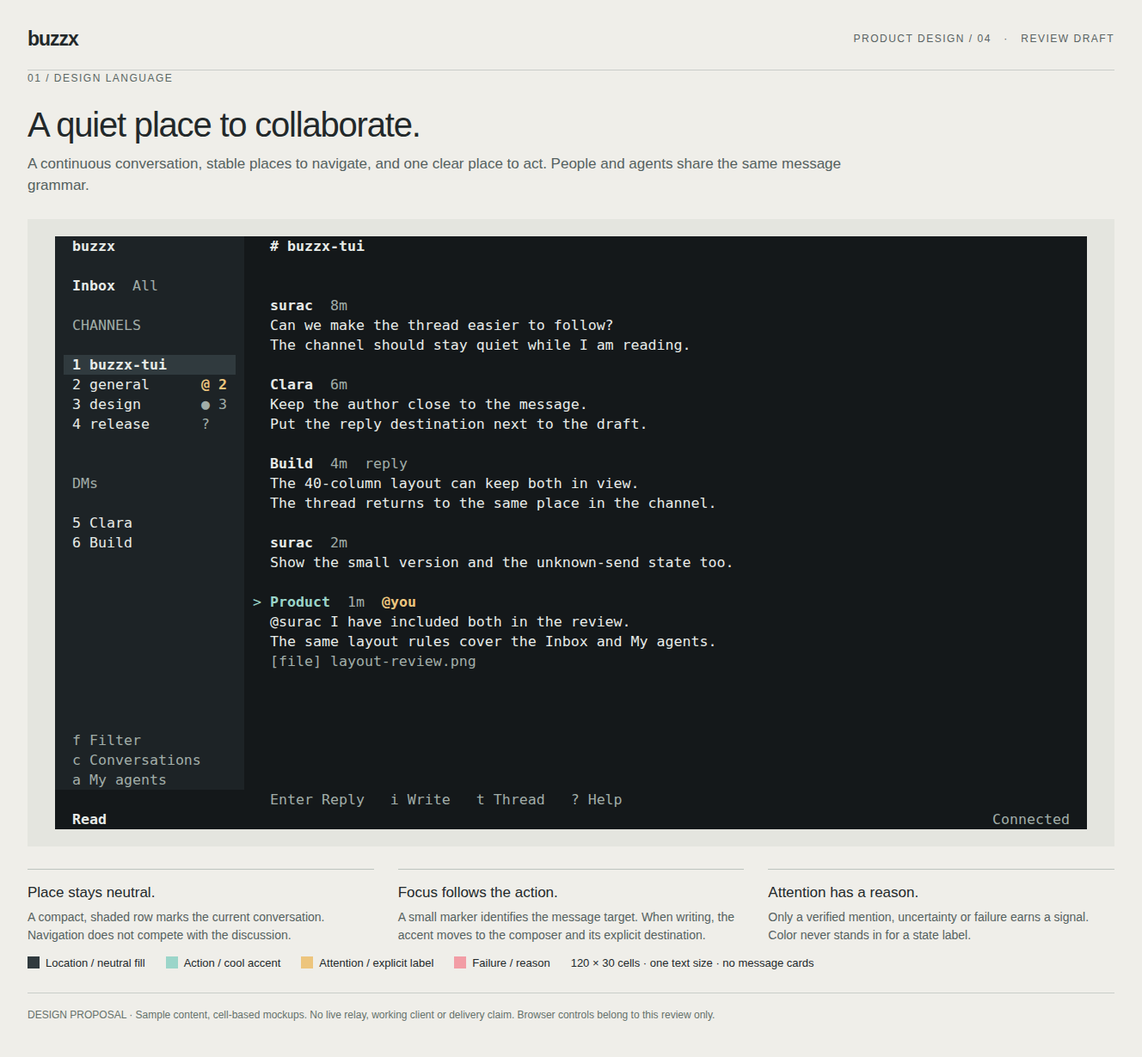
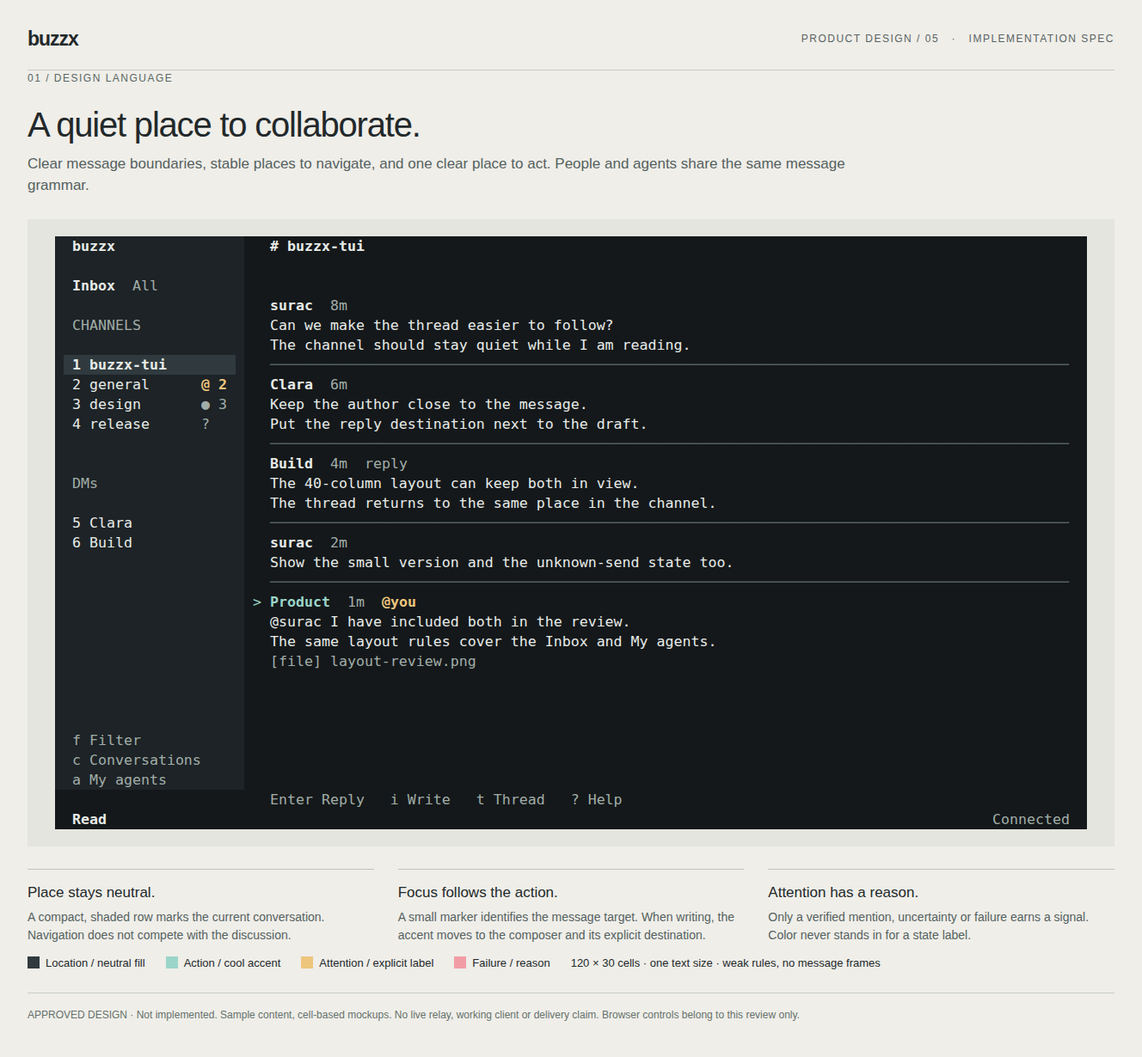
Finalize TUI visual specification for implementation

diff --git a/docs/assets/tui-design-system.html b/docs/assets/tui-design-system.html
@@ -2,11 +2,11 @@
 <html lang="en"><meta charset="utf-8"><meta name="viewport" content="width=device-width, initial-scale=1">
 <title>buzzx / A quiet place to collaborate</title>
 <style>
-*{box-sizing:border-box}body{margin:0;background:#efeee9;color:#22282a;font:16px/1.5 Arial,sans-serif}main{width:1328px;margin:auto;padding:36px 32px 40px}header{display:flex;justify-content:space-between;align-items:center;border-bottom:1px solid #c9cdc9;padding-bottom:18px}.brand{font-size:23px;font-weight:700;letter-spacing:-1px}header small{font-size:12px;letter-spacing:1.5px;text-transform:uppercase;color:#596363}nav{display:flex;gap:8px;margin:22px 0}button{font:inherit;font-size:13px;border:1px solid #b6bebb;padding:7px 13px;background:transparent;color:inherit;cursor:pointer}button[aria-pressed=true]{background:#22282a;color:#fff;border-color:#22282a}h1{font-size:40px;font-weight:500;letter-spacing:-1.2px;line-height:1.15;margin:22px 0 10px}h2{font-size:20px;font-weight:500;margin:0 0 6px}p{margin:0;color:#556160}.lead{font-size:17px;max-width:980px;margin-bottom:26px}.kicker{font-size:12px;letter-spacing:1.5px;text-transform:uppercase;color:#5a6663}.label{display:flex;justify-content:space-between;align-items:baseline;margin:20px 0 10px}.label span{font-size:12px;color:#556160}.terminal{--bg:#14181a;--surface:#1d2326;--selected:#303a3e;--fg:#e7ebe8;--meta:#a1ada8;--line:#52615c;--accent:#9bd5c9;--attention:#edc57d;--error:#f29da5;--reverse:#e7ebe8;--reversefg:#14181a;--cw:10px;--rh:23px;background:var(--bg);color:var(--fg);font-family:'DejaVu Sans Mono','Noto Sans Mono CJK SC',monospace;font-size:16.6px;line-height:var(--rh);width:calc(var(--cols)*var(--cw));height:calc(var(--rows)*var(--rh));position:relative;overflow:hidden;font-variant-ligatures:none}.terminal.light{--bg:#fafaf7;--surface:#eeefeb;--selected:#dce3de;--fg:#25332e;--meta:#56645e;--line:#818f86;--accent:#1a6960;--attention:#835506;--error:#ad3545;--reverse:#25332e;--reversefg:#fafaf7}.terminal.mono{--bg:#14181a;--surface:#14181a;--selected:#e7ebe8;--fg:#e7ebe8;--meta:#e7ebe8;--line:#e7ebe8;--accent:#e7ebe8;--attention:#e7ebe8;--error:#e7ebe8;--reverse:#e7ebe8;--reversefg:#14181a}.run,.paint{position:absolute;white-space:pre}.run{height:var(--rh);font-weight:400}.bold{font-weight:700}.meta{color:var(--meta)}.accent{color:var(--accent)}.attention{color:var(--attention);font-weight:700}.error{color:var(--error);font-weight:700}.inverse{color:var(--reversefg);font-weight:700}.selectedtext{color:var(--fg)}.mono .selectedtext{color:var(--reversefg)}.mono .accent{font-weight:700;text-decoration:underline}.grid{display:grid;grid-template-columns:1fr 1fr;gap:12px 28px}.grid .terminal{--cw:7.7px;--rh:19px;font-size:12.78px}.notes{display:grid;grid-template-columns:repeat(3,1fr);gap:28px;margin-top:26px}.notes article{border-top:1px solid #bcc4be;padding-top:14px}.notes h2{font-size:17px}.notes p{font-size:14px}.foot{font-size:12px;color:#65716b;margin-top:24px;padding-top:16px;border-top:1px solid #c9cdc9}.minirow{display:flex;gap:28px;align-items:flex-start}.minirow .terminal{--cw:10px;--rh:23px;font-size:16.6px}.statelegend{font-size:14px;color:#53615a;padding-top:15px;max-width:460px}.statelegend p{margin-bottom:14px}.hero{display:flex;justify-content:center;background:#e4e5df;padding:20px 0}.hide{display:none}body[data-export] nav{display:none}body[data-export] main{padding-top:28px}.ref{font-size:13px;margin-top:24px}a{color:#266b61}.swatches{display:flex;gap:24px;flex-wrap:wrap;margin-top:12px}.swatch{font-size:13px}.swatch i{display:inline-block;width:14px;height:14px;vertical-align:-2px;margin-right:7px} .pill{font-family:monospace;font-size:13px;background:#dce3de;padding:2px 6px} 
+*{box-sizing:border-box}body{margin:0;background:#efeee9;color:#22282a;font:16px/1.5 Arial,sans-serif}main{width:1328px;margin:auto;padding:36px 32px 40px}header{display:flex;justify-content:space-between;align-items:center;border-bottom:1px solid #c9cdc9;padding-bottom:18px}.brand{font-size:23px;font-weight:700;letter-spacing:-1px}header small{font-size:12px;letter-spacing:1.5px;text-transform:uppercase;color:#596363}nav{display:flex;gap:8px;margin:22px 0}button{font:inherit;font-size:13px;border:1px solid #b6bebb;padding:7px 13px;background:transparent;color:inherit;cursor:pointer}button[aria-pressed=true]{background:#22282a;color:#fff;border-color:#22282a}h1{font-size:40px;font-weight:500;letter-spacing:-1.2px;line-height:1.15;margin:22px 0 10px}h2{font-size:20px;font-weight:500;margin:0 0 6px}p{margin:0;color:#556160}.lead{font-size:17px;max-width:980px;margin-bottom:26px}.kicker{font-size:12px;letter-spacing:1.5px;text-transform:uppercase;color:#5a6663}.label{display:flex;justify-content:space-between;align-items:baseline;margin:20px 0 10px}.label span{font-size:12px;color:#556160}.terminal{--bg:#14181a;--surface:#1d2326;--selected:#303a3e;--fg:#e7ebe8;--meta:#a1ada8;--line:#52615c;--accent:#9bd5c9;--attention:#edc57d;--error:#f29da5;--reverse:#e7ebe8;--reversefg:#14181a;--cw:10px;--rh:23px;background:var(--bg);color:var(--fg);font-family:'DejaVu Sans Mono','Noto Sans Mono CJK SC',monospace;font-size:16.6px;line-height:var(--rh);width:calc(var(--cols)*var(--cw));height:calc(var(--rows)*var(--rh));position:relative;overflow:hidden;font-variant-ligatures:none}.terminal.light{--bg:#fafaf7;--surface:#eeefeb;--selected:#dce3de;--fg:#25332e;--meta:#56645e;--line:#818f86;--accent:#1a6960;--attention:#835506;--error:#ad3545;--reverse:#25332e;--reversefg:#fafaf7}.terminal.mono{--bg:#14181a;--surface:#14181a;--selected:#e7ebe8;--fg:#e7ebe8;--meta:#e7ebe8;--line:#e7ebe8;--accent:#e7ebe8;--attention:#e7ebe8;--error:#e7ebe8;--reverse:#e7ebe8;--reversefg:#14181a}.run,.paint{position:absolute;white-space:pre}.run{height:var(--rh);font-weight:400}.bold{font-weight:700}.meta{color:var(--meta)}.rule{color:var(--line)}.mono .rule{opacity:.45}.accent{color:var(--accent)}.attention{color:var(--attention);font-weight:700}.error{color:var(--error);font-weight:700}.inverse{color:var(--reversefg);font-weight:700}.selectedtext{color:var(--fg)}.mono .selectedtext{color:var(--reversefg)}.mono .accent{font-weight:700;text-decoration:underline}.grid{display:grid;grid-template-columns:1fr 1fr;gap:12px 28px}.grid .terminal{--cw:7.7px;--rh:19px;font-size:12.78px}.notes{display:grid;grid-template-columns:repeat(3,1fr);gap:28px;margin-top:26px}.notes article{border-top:1px solid #bcc4be;padding-top:14px}.notes h2{font-size:17px}.notes p{font-size:14px}.foot{font-size:12px;color:#65716b;margin-top:24px;padding-top:16px;border-top:1px solid #c9cdc9}.minirow{display:flex;gap:28px;align-items:flex-start}.minirow .terminal{--cw:10px;--rh:23px;font-size:16.6px}.statelegend{font-size:14px;color:#53615a;padding-top:15px;max-width:460px}.statelegend p{margin-bottom:14px}.hero{display:flex;justify-content:center;background:#e4e5df;padding:20px 0}.hide{display:none}body[data-export] nav{display:none}body[data-export] main{padding-top:28px}.ref{font-size:13px;margin-top:24px}a{color:#266b61}.swatches{display:flex;gap:24px;flex-wrap:wrap;margin-top:12px}.swatch{font-size:13px}.swatch i{display:inline-block;width:14px;height:14px;vertical-align:-2px;margin-right:7px} .pill{font-family:monospace;font-size:13px;background:#dce3de;padding:2px 6px}
 </style>
-<main><header><div class="brand">buzzx</div><small>Product design / 04 &nbsp; · &nbsp; Review draft</small></header>
+<main><header><div class="brand">buzzx</div><small>Product design / 05 &nbsp; · &nbsp; Implementation spec</small></header>
 <nav aria-label="Review boards"><button data-board="language">Design language</button><button data-board="surfaces">Shared surfaces</button><button data-board="resilience">Small + uncertain</button><button data-board="density">Density</button><span style="flex:1"></span><button data-theme="dark">Dark</button><button data-theme="light">Light</button><button data-theme="mono">NO_COLOR</button></nav>
-<div id="board"></div><div class="foot">DESIGN PROPOSAL · Sample content, cell-based mockups. No live relay, working client or delivery claim. Browser controls belong to this review only.</div></main>
+<div id="board"></div><div class="foot">APPROVED DESIGN · Not implemented. Sample content, cell-based mockups. No live relay, working client or delivery claim. Browser controls belong to this review only.</div></main>
 <script>
 const q=new URLSearchParams(location.search);let board=q.get('board')||'language',theme=q.get('theme')||'dark';if(q.has('export'))document.body.dataset.export='true';
 const issues=[];let serial=0;
@@ -16,19 +16,29 @@ function tx(x,y,s,cls=''){let n=[...s].length;if(x<0||y<0||x+n>cols||y>=rows)iss
 return {e,tx,paint,cols,rows};}
 function foot(t,keys,state='Connected',mode='Read'){t.tx(2,t.rows-2,keys,'meta');t.tx(2,t.rows-1,mode,'bold');t.tx(Math.max(2,t.cols-state.length-2),t.rows-1,state,state.includes('unconfirmed')?'attention':state.includes('failed')?'error':'meta')}
 function head(t,title,back=''){t.paint(0,0,t.cols,1,'surface');t.tx(2,0,title,'bold');if(back)t.tx(t.cols-back.length-2,0,back,'meta')}
-function msg(t,x,y,who,age,lines,{focus=false,tag='',kind='meta'}={}){if(focus)t.tx(x-2,y,'>','accent');t.tx(x,y,who,focus?'accent bold':'bold');t.tx(x+who.length+2,y,age,'meta');if(tag)t.tx(x+who.length+age.length+4,y,tag,kind);lines.forEach((s,i)=>t.tx(x,y+1+i,s));return y+lines.length+2}
+function rule(t,x,y,n){if(n>=4)t.tx(x,y,'─'.repeat(n),'rule')}
+function msg(t,x,y,who,age,lines,{focus=false,tag='',kind='meta'}={}){
+ const roomy=t.cols>=40&&t.rows>=16;
+ if(roomy&&t.lastMessageEnd!==undefined)rule(t,x,y-1,t.cols-x-2);
+ if(focus)t.tx(x-2,y,'>','accent');t.tx(x,y,who,focus?'accent bold':'bold');
+ t.tx(x+who.length+2,y,age,'meta');if(tag)t.tx(x+who.length+age.length+4,y,tag,kind);
+ const labelEnd=x+who.length+2+age.length+(tag?tag.length+2:0);
+ if(!roomy)rule(t,labelEnd+2,y,t.cols-2-labelEnd-2);
+ lines.forEach((s,i)=>t.tx(x,y+1+i,s));t.lastMessageEnd=y+lines.length;
+ return t.lastMessageEnd+(roomy?2:1)
+}
 function channel(){const t=term(120,30);t.paint(0,0,22,28,'surface');t.tx(2,0,'buzzx','bold');t.tx(25,0,'# buzzx-tui','bold');t.tx(2,2,'Inbox','bold');t.tx(9,2,'All','meta');t.tx(2,4,'CHANNELS','meta');t.paint(1,6,20,1,'selected');t.tx(2,6,'1 buzzx-tui','selectedtext bold');t.tx(2,7,'2 general');t.tx(17,7,'@ 2','attention');t.tx(2,8,'3 design');t.tx(17,8,'● 3','meta');t.tx(2,9,'4 release');t.tx(17,9,'?','meta');t.tx(2,12,'DMs','meta');t.tx(2,14,'5 Clara');t.tx(2,15,'6 Build');t.tx(2,25,'f Filter','meta');t.tx(2,26,'c Conversations','meta');t.tx(2,27,'a My agents','meta');
 msg(t,25,3,'surac','8m',['Can we make the thread easier to follow?','The channel should stay quiet while I am reading.']);
 msg(t,25,7,'Clara','6m',['Keep the author close to the message.','Put the reply destination next to the draft.']);
 msg(t,25,11,'Build','4m',['The 40-column layout can keep both in view.','The thread returns to the same place in the channel.'],{tag:'reply'});
 msg(t,25,15,'surac','2m',['Show the small version and the unknown-send state too.']);
 msg(t,25,18,'Product','1m',['@surac I have included both in the review.','The same layout rules cover the Inbox and My agents.'],{focus:true,tag:'@you',kind:'attention'});t.tx(25,21,'[file] layout-review.png','meta');t.tx(25,28,'Enter Reply   i Write   t Thread   ? Help','meta');t.tx(2,29,'Read','bold');t.tx(109,29,'Connected','meta');return t}
-function thread(){const t=term(80,20);head(t,'# buzzx-tui / Thread');msg(t,4,2,'surac','8m',['Can we make the thread easier to follow?'],{tag:'root'});msg(t,4,5,'Clara','6m',['Put the reply destination next to the draft.'],{tag:'reply'});msg(t,4,8,'Build','4m',['The 40-column layout can keep both in view.'],{tag:'reply'});t.paint(2,13,76,4,'surface');t.tx(2,13,'|','accent');t.tx(4,13,'Reply to Build','accent bold');t.tx(4,15,'Please include the small-window capture.');t.paint(4+'Please include the small-window capture.'.length,15,1,1,'fg');foot(t,'Enter Send   Alt+Enter Newline   Esc Nav','Connected','Reply');return t}
+function thread(){const t=term(80,20);head(t,'# buzzx-tui / Thread');msg(t,4,2,'surac','8m',['Can we make the thread easier to follow?'],{tag:'root'});msg(t,4,5,'Clara','6m',['Put the reply destination next to the draft.'],{tag:'reply'});msg(t,4,8,'Build','4m',['The 40-column layout can keep both in view.'],{tag:'reply'});t.paint(2,14,76,4,'surface');t.tx(2,14,'|','accent');t.tx(4,14,'Reply to Build','accent bold');t.tx(4,16,'Please include the small-window capture.');t.paint(4+'Please include the small-window capture.'.length,16,1,1,'fg');foot(t,'Enter Send   Alt+Enter Newline   Esc Nav','Connected','Reply');return t}
 function picker(){const t=term(80,20);head(t,'Inbox / For you','Esc Back');t.tx(4,3,'CHANNELS','meta');t.paint(2,5,76,1,'selected');t.tx(2,5,'> 1  general','selectedtext bold');t.tx(72,5,'@ 2','selectedtext bold');t.tx(4,7,'2  design');t.tx(72,7,'@ 1','attention');t.tx(4,10,'DMs','meta');t.tx(4,12,'3  Clara');t.tx(72,12,'@ 1','attention');foot(t,'j/k Select   Enter Open   f Filter   ? Help','Connected','Pick');return t}
 function agents(){const t=term(80,17);head(t,'My agents','Esc Back');t.tx(4,2,'NAME','meta');t.tx(38,2,'OBSERVED STATE','meta');t.paint(2,4,76,1,'selected');t.tx(2,4,'> Build','selectedtext bold');t.tx(38,4,'Working','selectedtext bold');t.tx(4,6,'Product');t.tx(38,6,'No active turn observed');t.tx(4,8,'Research');t.tx(38,8,'Unknown','meta');t.tx(4,12,'Build  73ae...1c08','meta');foot(t,'j/k Select   Enter Details','Connected','Agents');return t}
 function detail(){const t=term(80,17);head(t,'My agents / Build','Esc Back');t.tx(4,2,'Working','bold');t.tx(4,4,'Last signal  3s ago','meta');t.tx(4,5,'Key          73ae...1c08','meta');t.tx(4,8,'CONVERSATIONS','meta');t.paint(2,10,76,1,'selected');t.tx(2,10,'> # buzzx-tui','selectedtext bold');t.tx(4,12,'Unavailable context','meta');foot(t,'j/k Select   Enter Open channel','Connected','Agents');return t}
-function compact(cols,rows,tone=theme,state='reply'){const t=term(cols,rows,tone);const tiny=cols<40;if(tiny){head(t,'Thread #buzzx...');t.tx(0,1,'Build: Checks passed.');t.tx(0,2,'Reply to Build','accent bold');t.tx(0,3,'Please share evidence.');t.paint(22,3,1,1,'fg');t.tx(0,4,'Enter:send Esc:nav','meta');t.tx(0,5,'Connected','meta');return t}head(t,'# buzzx-tui / Thread');msg(t,2,2,state==='edit'?'surac':'Build',state==='edit'?'1m':'2m',[state==='edit'?'Please share the first capture.':'The small layout is ready.']);if(state==='uncertain'){t.tx(2,5,'surac  1s  ? Unconfirmed','attention');t.tx(2,6,'Please share the evidence.');t.tx(2,8,'Esc Back   ? Help','meta');t.tx(0,9,'Send unconfirmed','attention');return t}t.paint(0,5,cols,3,'surface');t.tx(0,5,'|','accent');t.tx(2,5,state==='edit'?'Edit own message':'Reply to Build','accent bold');t.tx(2,6,'Please share the evidence.');t.paint(2+'Please share the evidence.'.length,6,1,1,'fg');t.tx(2,8,'Enter Send   Esc Nav','meta');t.tx(2,9,'Connected','meta');return t}
-function error(){const t=term(80,12);head(t,'# buzzx-tui / Thread');msg(t,4,2,'Clara','2m',['Please send the layout to the team.']);t.paint(2,6,76,3,'surface');t.tx(2,6,'|','accent');t.tx(4,6,'Reply to Clara','accent bold');t.tx(4,7,'@Twin please review this layout.');t.paint(4+'@Twin please review this layout.'.length,7,1,1,'fg');t.tx(2,10,'Enter Send   Esc Nav, then ? Help','meta');t.tx(2,11,'Not sent: @Twin is ambiguous. Use an exact identity.','error');return t}
+function compact(cols,rows,tone=theme,state='reply'){const t=term(cols,rows,tone);const tiny=cols<40;if(tiny){head(t,'Thread #buzzx...');t.tx(0,1,'Build: Checks passed.');t.tx(0,2,'Reply to Build','accent bold');t.tx(0,3,'Please share evidence.');t.paint(22,3,1,1,'fg');t.tx(0,4,'Enter:send Esc:nav','meta');t.tx(0,5,'Connected','meta');return t}head(t,'# buzzx-tui / Thread');msg(t,2,2,state==='edit'?'surac':'Build',state==='edit'?'1m':'2m',[state==='edit'?'Please share the first capture.':'The small layout is ready.']);if(state==='uncertain'){msg(t,2,4,'surac','1s',['Please share the evidence.'],{tag:'? Unconfirmed',kind:'attention'});t.tx(2,8,'Esc Back   ? Help','meta');t.tx(0,9,'Send unconfirmed','attention');return t}t.paint(0,6,cols,2,'surface');t.tx(0,6,'|','accent');t.tx(2,6,state==='edit'?'Edit own message':'Reply to Build','accent bold');t.tx(2,7,'Please share the evidence.');t.paint(2+'Please share the evidence.'.length,7,1,1,'fg');t.tx(2,8,'Enter Send   Esc Nav','meta');t.tx(2,9,'Connected','meta');return t}
+function error(){const t=term(80,12);head(t,'# buzzx-tui / Thread');msg(t,4,2,'Clara','2m',['Please send the layout to the team.']);t.paint(2,8,76,2,'surface');t.tx(2,8,'|','accent');t.tx(4,8,'Reply to Clara','accent bold');t.tx(4,9,'@Twin please review this layout.');t.paint(4+'@Twin please review this layout.'.length,9,1,1,'fg');t.tx(2,10,'Enter Send   Esc Nav, then ? Help','meta');t.tx(2,11,'Not sent: @Twin is ambiguous. Use an exact identity.','error');return t}
 function smallRead(tone){const t=term(80,12,tone);head(t,'# buzzx-tui / Thread','Esc Back');msg(t,4,2,'Clara','3m',['Keep the author close to the message.'],{tag:'root'});msg(t,4,4,'Product','1m',['@surac the layout review is ready.'],{focus:true,tag:'@you',kind:'attention'});foot(t,'Enter Reply   i Root   ? Help');return t}
 function wideSmall(){const t=term(80,12);t.paint(0,0,22,10,'surface');t.tx(2,0,'Inbox / All','bold');t.tx(2,2,'CHANNELS','meta');t.paint(1,3,20,1,'selected');t.tx(2,3,'1 buzzx-tui','selectedtext bold');t.tx(2,4,'2 general');t.tx(17,4,'@ 2','attention');t.tx(2,5,'3 design');t.tx(2,7,'DMs','meta');t.tx(2,8,'4 Clara');t.tx(25,0,'# buzzx-tui','bold');msg(t,25,2,'Clara','3m',['Can we review the narrow layout?']);msg(t,25,4,'Product','1m',['The author and destination stay visible.'],{focus:true});t.tx(25,10,'Enter Reply  i Write  t Thread','meta');t.tx(2,10,'f Filter','meta');t.tx(2,11,'Read','bold');t.tx(69,11,'Connected','meta');return t}
 function narrowRead(){const t=term(79,12);head(t,'# buzzx-tui');msg(t,4,2,'Clara','3m',['Can we review the narrow layout?']);msg(t,4,4,'Product','1m',['The author and destination stay visible.'],{focus:true});foot(t,'j/k Move  c Conversations  Enter Reply  i Write');return t}
@@ -36,8 +46,8 @@ function tinyAgents(){const t=term(24,6);head(t,'My agents');t.paint(0,1,24,3,'s
 function missingRoot(){const t=term(40,10);head(t,'# buzzx-tui / Thread','Esc Back');t.tx(2,2,'Root deleted','meta');msg(t,2,4,'Build','2m',['Replies remain readable.'],{focus:true});t.tx(2,8,'Enter Reply   ? Help','meta');t.tx(2,9,'Reconnecting; stale','attention');return t}
 function tile(title,caption,t){const f=document.createElement('section');const l=document.createElement('div');l.className='label';l.innerHTML='<h2>'+title+'</h2><span>'+caption+'</span>';f.append(l,t.e);return f}
 function intro(k,title,lead){return '<div class="kicker">'+k+'</div><h1>'+title+'</h1><p class="lead">'+lead+'</p>'}
-function render(){issues.length=0;serial=0;const b=document.getElementById('board');b.innerHTML='';document.querySelectorAll('[data-board]').forEach(e=>e.setAttribute('aria-pressed',e.dataset.board===board));document.querySelectorAll('[data-theme]').forEach(e=>e.setAttribute('aria-pressed',e.dataset.theme===theme));if(board==='language'){b.innerHTML=intro('01 / Design language','A quiet place to collaborate.','A continuous conversation, stable places to navigate, and one clear place to act. People and agents share the same message grammar.');let h=document.createElement('div');h.className='hero';h.append(channel().e);b.append(h);b.insertAdjacentHTML('beforeend','<div class="notes"><article><h2>Place stays neutral.</h2><p>A compact, shaded row marks the current conversation. Navigation does not compete with the discussion.</p></article><article><h2>Focus follows the action.</h2><p>A small marker identifies the message target. When writing, the accent moves to the composer and its explicit destination.</p></article><article><h2>Attention has a reason.</h2><p>Only a verified mention, uncertainty or failure earns a signal. Color never stands in for a state label.</p></article></div><div class="swatches"><span class="swatch"><i style="background:#303a3e"></i>Location / neutral fill</span><span class="swatch"><i style="background:#9bd5c9"></i>Action / cool accent</span><span class="swatch"><i style="background:#edc57d"></i>Attention / explicit label</span><span class="swatch"><i style="background:#f29da5"></i>Failure / reason</span><span class="swatch">120 × 30 cells · one text size · no message cards</span></div>')}
+function render(){issues.length=0;serial=0;const b=document.getElementById('board');b.innerHTML='';document.querySelectorAll('[data-board]').forEach(e=>e.setAttribute('aria-pressed',e.dataset.board===board));document.querySelectorAll('[data-theme]').forEach(e=>e.setAttribute('aria-pressed',e.dataset.theme===theme));if(board==='language'){b.innerHTML=intro('01 / Design language','A quiet place to collaborate.','Clear message boundaries, stable places to navigate, and one clear place to act. People and agents share the same message grammar.');let h=document.createElement('div');h.className='hero';h.append(channel().e);b.append(h);b.insertAdjacentHTML('beforeend','<div class="notes"><article><h2>Place stays neutral.</h2><p>A compact, shaded row marks the current conversation. Navigation does not compete with the discussion.</p></article><article><h2>Focus follows the action.</h2><p>A small marker identifies the message target. When writing, the accent moves to the composer and its explicit destination.</p></article><article><h2>Attention has a reason.</h2><p>Only a verified mention, uncertainty or failure earns a signal. Color never stands in for a state label.</p></article></div><div class="swatches"><span class="swatch"><i style="background:#303a3e"></i>Location / neutral fill</span><span class="swatch"><i style="background:#9bd5c9"></i>Action / cool accent</span><span class="swatch"><i style="background:#edc57d"></i>Attention / explicit label</span><span class="swatch"><i style="background:#f29da5"></i>Failure / reason</span><span class="swatch">120 × 30 cells · one text size · weak rules, no message frames</span></div>')}
 else if(board==='surfaces'){b.innerHTML=intro('02 / Shared surfaces','Different tasks. The same grammar.','Context at the top. Content in the middle. Available actions and state at the bottom. Each surface reuses these positions.');let g=document.createElement('div');g.className='grid';g.append(tile('Thread / reply','80 × 20',thread()),tile('Inbox / choose a conversation','80 × 20',picker()),tile('My agents / list','80 × 17',agents()),tile('My agents / detail','80 × 17',detail()));b.append(g);b.insertAdjacentHTML('beforeend','<div class="notes"><article><h2>One list row.</h2><p>Inbox, agents and working contexts share selection and alignment. Meaningful state stays visible before names are clipped.</p></article><article><h2>One composer.</h2><p>New message, Reply to and Edit own message share a layout. The destination stays attached to the draft.</p></article><article><h2>One honest state.</h2><p>Working, Unknown and No active turn observed keep their meanings. Reading a message never proves agent execution.</p></article></div>')}
-else if(board==='resilience'){b.innerHTML=intro('03 / Resilience','Less room. No less meaning.','Density changes before meaning does. A destination, a draft, and an honest outcome must survive both small terminals and lost color.');let g=document.createElement('div');g.className='grid';g.append(tile('Light / thread reading','80 × 12',smallRead('light')),tile('NO_COLOR / same fixture','80 × 12',smallRead('mono')));b.append(g);let m=document.createElement('div');m.className='minirow';m.append(tile('Thread / reply','40 × 10',compact(40,10)),tile('Write / uncertain','40 × 10',compact(40,10,theme,'uncertain')),tile('Minimum / reply','24 × 6',compact(24,6)));b.append(m);let g2=document.createElement('div');g2.className='grid';g2.append(tile('Refused mention / draft retained','80 × 12',error()));let notes=document.createElement('div');notes.className='statelegend';notes.innerHTML='<h2>Outcome is part of the interface.</h2><p><b>Sending</b> is pending. <b>Not sent</b> keeps the draft for correction. <b>Unconfirmed</b> keeps the attempted message visible without offering a duplicate send.</p><p><b>Reconnecting</b> keeps loaded messages visible and blocks publishing. <b>Unknown</b> never becomes a reassuring zero.</p><p>At 24 × 6, keep exactly six rows: context, target context, destination, input, keys, state. Remove decorative padding first.</p><p>Theme buttons change this review artifact only. The client inherits terminal defaults; the light and dark samples are controlled contrast studies.</p>';g2.append(notes);b.append(g2)}else{b.innerHTML=intro('04 / Density','Shrink the layout, keep the contract.','The 80-column boundary changes navigation. Short windows remove blank rows before they remove authors, destinations or state.');let g=document.createElement('div');g.className='grid';g.append(tile('Channel / wide','80 × 12',wideSmall()),tile('Channel / narrow','79 × 12',narrowRead()));b.append(g);let m=document.createElement('div');m.className='minirow';m.append(tile('Thread / editing','40 × 10',compact(40,10,theme,'edit')),tile('Deleted root + stale content','40 × 10',missingRoot()),tile('Agents / state','24 × 6',tinyAgents()));b.append(m);b.insertAdjacentHTML('beforeend','<div class="notes"><article><h2>Height pays for spacing.</h2><p>At 12 rows, no decorative gap separates author and body. Below 12 rows, remove extra padding. Keep one line of context while composing.</p></article><article><h2>Width changes structure.</h2><p>At 80 columns, the channel keeps its 22-cell sidebar. At 79 columns, c opens the full-screen Inbox. A thread is always one column.</p></article><article><h2>State wins over the name.</h2><p>A long Agent state wraps. Unknown is never abbreviated to Idle. On disconnect, loaded content stays visible and publication is blocked.</p></article></div>')}window.designAudit={issues,board,theme,terminals:serial};}
+else if(board==='resilience'){b.innerHTML=intro('03 / Resilience','Less room. No less meaning.','Density changes before meaning does. A destination, a draft, and an honest outcome must survive both small terminals and lost color.');let g=document.createElement('div');g.className='grid';g.append(tile('Light / thread reading','80 × 12',smallRead('light')),tile('NO_COLOR / same fixture','80 × 12',smallRead('mono')));b.append(g);let m=document.createElement('div');m.className='minirow';m.append(tile('Thread / reply','40 × 10',compact(40,10)),tile('Write / uncertain','40 × 10',compact(40,10,theme,'uncertain')),tile('Minimum / reply','24 × 6',compact(24,6)));b.append(m);let g2=document.createElement('div');g2.className='grid';g2.append(tile('Refused mention / draft retained','80 × 12',error()));let notes=document.createElement('div');notes.className='statelegend';notes.innerHTML='<h2>Outcome is part of the interface.</h2><p><b>Sending</b> is pending. <b>Not sent</b> keeps the draft for correction. <b>Unconfirmed</b> keeps the attempted message visible without offering a duplicate send.</p><p><b>Reconnecting</b> keeps loaded messages visible and blocks publishing. <b>Unknown</b> never becomes a reassuring zero.</p><p>At 24 × 6, keep exactly six rows: context, target context, destination, input, keys, state. Remove decorative padding first.</p><p>Theme buttons change this review artifact only. The client inherits terminal defaults; the light and dark samples are controlled contrast studies.</p>';g2.append(notes);b.append(g2)}else{b.innerHTML=intro('04 / Density','Shrink the layout, keep the contract.','The 80-column boundary changes navigation. Short windows remove blank rows before they remove authors, destinations or state.');let g=document.createElement('div');g.className='grid';g.append(tile('Channel / wide','80 × 12',wideSmall()),tile('Channel / narrow','79 × 12',narrowRead()));b.append(g);let m=document.createElement('div');m.className='minirow';m.append(tile('Thread / editing','40 × 10',compact(40,10,theme,'edit')),tile('Deleted root + stale content','40 × 10',missingRoot()),tile('Agents / state','24 × 6',tinyAgents()));b.append(m);b.insertAdjacentHTML('beforeend','<div class="notes"><article><h2>Height pays for spacing.</h2><p>Roomy messages use a rule in the existing gap. Compact headers carry the rule on the same row. Authors, state and body keep their space.</p></article><article><h2>Width changes structure.</h2><p>At 80 columns, the channel keeps its 22-cell sidebar. At 79 columns, c opens the full-screen Inbox. A thread is always one column.</p></article><article><h2>State wins over the name.</h2><p>A long Agent state wraps. Decoration yields before meaningful text. Unknown is never abbreviated to Idle. On disconnect, loaded content stays visible and publication is blocked.</p></article></div>')}window.designAudit={issues,board,theme,terminals:serial};}
 document.querySelectorAll('[data-board]').forEach(e=>e.onclick=()=>{board=e.dataset.board;render()});document.querySelectorAll('[data-theme]').forEach(e=>e.onclick=()=>{theme=e.dataset.theme;render()});render();
 </script></html>

diff --git a/docs/tui-visual.md b/docs/tui-visual.md
@@ -1,7 +1,8 @@
 # TUI visual language
 
-Status: revision 4, product review draft. Not implemented. This replaces the
-visual direction in revisions 1-3. Previous images remain historical artifacts.
+Status: revision 5, approved for implementation on 2026-09-27. Not implemented.
+This is the implementation baseline, including the approved weak message
+separators. It replaces revisions 1-4; previous images remain historical artifacts.
 The [review atlas](assets/tui-design-system.html) contains four boards and dark,
 light and NO_COLOR studies. Its controls are for reviewing the design, not new
 client controls. Sample messages and Agent states are invented fixtures.
@@ -20,23 +21,22 @@ explicit when its knowledge is incomplete. A conversation is the primary
 surface. Navigation supports it; runtime information does not take it over.
 This follows the [product contract](../core.md).
 
-## Review of the previous direction
+## Scope and authority
 
-Revision 3 styled isolated screens before defining their shared grammar. The
-selected conversation, selected message and input all used blue emphasis, so
-several regions competed to be the action target. A highlighted message kept
-its accent while the composer was active. The proposed author/body gap broke
-message grouping, and the 26-cell roomy example did not demonstrate the
-compact sidebar allocation.
+Implement this visual language across the channel/DM timeline, focused thread,
+composer, Inbox picker, Agent list/detail and help. All pages use the same
+styles, spacing and selection rules. Do not stop at the main channel screen.
 
-The sample also replaced the existing unread dot with an unexplained asterisk.
-It mainly demonstrated a spacious dark channel and a narrow reply; light,
-NO_COLOR, list/detail, refused sends and uncertain sends were left as future
-checks. Passing repository checks could not establish that the design worked.
+This document owns visual appearance and density. [The manual](tui-use.md)
+owns keys, focus, drafts, recipients and state meanings;
+[the render contract](../design/render-contract.md) owns rows and overlays.
+Existing ASCII layouts in the manual explain behavior, not the final styling.
+This spec and its revision-5 atlas are the appearance baseline.
 
-Choose a shared layout and semantic emphasis before styling individual views.
-Keep one message grammar, one list selection, one composer, and one state area.
-The specimens below demonstrate these components together and under pressure.
+No new control surface, setting, theme picker, navigation command, message
+grouping, protocol, read-state rule or Agent capability is added. A visual
+separator cannot merge two events, introduce a selectable item or imply that
+a task or thread has finished. The application remains a terminal chat client.
 
 ## Shared anatomy
 
@@ -93,8 +93,11 @@ All authors use the same treatment. No synthetic human/assistant bubble style,
 role color, avatar or inferred bot badge is added.
 
 An author line is immediately followed by its body, always on the same left
-edge. At 16 rows or more, one blank row separates message groups and list items
-may have one intervening blank row. Below 16 rows, remove decorative gaps.
+edge. A roomy timeline has at least 40 terminal columns and 16 terminal rows;
+all other supported sizes use compact spacing. This is a density choice, not
+a new navigation breakpoint. Roomy timelines use one separator row between
+messages; compact timelines use no extra separator row. Lists may have one
+intervening blank row in roomy mode, but do not inherit timeline separators.
 Existing newlines in message content are content and are not removed.
 
 The channel sidebar stays 22 cells wide. Content starts with a two-cell focus
@@ -103,11 +106,13 @@ outer inset plus its focus gutter. At widths below 40, reduce outer padding
 before reducing body width. At 24 columns, padding can be zero. At 24x6,
 composition uses exactly the six rows illustrated in the density studies.
 
-Leave no blank row inside a short composer between its target and input. A
-roomy composer can have one. The cursor is a terminal cell after the insertion
-point, not an extra icon. Use at most one neutral input surface and a short
-left rule beside its target; remove full box borders. At small sizes the
-target and cursor establish the input region without decoration.
+A compact composer uses one target row immediately followed by one input row.
+A roomy composer uses one target row, one blank row and two input rows. Keep
+the cursor visible within that fixed input allocation as the draft grows;
+the buffer itself is not clipped or shortened. Use the terminal cursor at the
+insertion point; the block in the mockup illustrates it, not a second cursor.
+Use one neutral input surface and a short left rule beside its target, with no
+full box border. At minimal widths, the target and cursor suffice.
 
 Conversation signal slots retain the existing five-cell reservation. Names
 shorten only after allocating their state. In an Agent list, align state words
@@ -116,12 +121,78 @@ Do not abbreviate `No active turn observed` to a different claim. Message
 bodies wrap; labels may clip; complete names and reasons remain in help/detail.
 Measure terminal cells, including wide and combining characters.
 
+## Message separators
+
+Ordinary messages have no complete frame or card. A weak horizontal rule
+clarifies where one message ends and the next starts. It uses the neutral
+separator role, never the focus, mention or error color. Do not brighten it
+when a message is focused, mentioned, pending or uncertain.
+
+- **Roomy timeline:** replace the single gap between adjacent messages with
+  one rule row. Start at the body left edge and end at the content right inset;
+  do not cross the focus gutter or sidebar. The rule follows the entire message,
+  including attachment and reaction lines, and precedes the next author. Do not
+  add another gap above or below it, or a rule before the first/after the last
+  message in the loaded sequence.
+- **Compact timeline:** allocate the author, age and semantic labels first.
+  If at least six cells remain, leave two spaces and fill the remainder with
+  the rule (at least four strokes). Otherwise omit it. Never clip a name,
+  state or body just to fit decoration. The rule cannot wrap to another row.
+- **Minimal one-row excerpt:** where the existing compact view combines an
+  author and body in one row, omit the rule. At 24x6 the input context needs
+  that space. A header-only row may still use the compact rule if space permits.
+
+A separator is presentational spacing, not a row/event of its own. It cannot
+receive focus, advance read progress, count as a reply or be a write target.
+When the viewport starts inside a message, do not fabricate a new message
+boundary. A rule scrolls with the actual boundary, not as a sticky screen edge.
+Incoming messages and switching density must preserve the focused event.
+
+Use a single-cell horizontal stroke, such as `─`; ASCII `-` is acceptable when
+that glyph is unavailable. In NO_COLOR use default foreground with dim styling
+where supported, never reverse, bold or an attention marker. If dim is not
+supported, a plain neutral stroke is sufficient; author weight and position
+still distinguish the message. Keep the focused author and meaningful labels
+stronger than the decoration. Consecutive messages by the same author retain
+separate headers and the same rule: no new grouping behavior is introduced.
+
+The input's short vertical rule identifies the active writing region. It does
+not wrap the draft in a message frame. Inbox, Agents and help retain their
+existing list/section grouping; they do not put a horizontal line after every
+item. This keeps boundaries consistent with the type of content.
+
+## Region budgets
+
+Reserve from the bottom before laying out the timeline. Every supported view
+has a one-row context header, one keys row and one state row. In minimal mode
+the state word can replace a redundant mode word. The remaining rows are
+content; reading mode has no reserved empty composer.
+
+| Density | Composer allocation | Timeline allocation while composing |
+| --- | --- | --- |
+| Roomy | Target 1 + gap 1 + input 2 | Remaining height after header, keys and state |
+| Compact | Target 1 + input 1 | Remaining height after header, keys and state |
+| 24x6 minimum | Target 1 + input 1 | Exactly 1 context row |
+
+The channel typing line may take one additional row only when at least one
+context row remains. Otherwise omit that decorative activity line for the
+frame, retaining its existing state and sidebar signal. A thread never labels
+channel typing as thread activity. Full errors must not replace the target or
+input; expose the short reason in the state row and full detail through help.
+
+At 24x6, composing is exactly: header, context, target, input, keys, state.
+At that size, reading has three content rows. At 80x12 a channel still keeps
+its 22-cell sidebar; at 79x12 the existing one-column navigation applies. A
+thread and overlays remain full-screen at both widths. Below the supported
+minimum, show the existing size message and preserve state for the next resize.
+
 ## Palette and terminal defaults
 
 Color reinforces a structure that is already legible without it. The following
 are controlled review values, not a theme setting or a requirement to override
 the user's terminal background. There are three neutral surfaces and three
-semantic foreground accents; there are no per-page palettes.
+semantic foreground accents and one decorative rule role; there are no
+per-page palettes.
 
 | Role | Dark study | Light study | No reliable palette / NO_COLOR |
 | --- | --- | --- | --- |
@@ -129,6 +200,7 @@ semantic foreground accents; there are no per-page palettes.
 | Navigation / input surface | `#1d2326` | `#eeefeb` | Default background, spacing and target label |
 | Selected list row | `#303a3e` | `#dce3de` | Reverse default foreground/background |
 | Secondary text | `#a1ada8` | `#56645e` | Default foreground, secondary position |
+| Decorative rule | `#52615c` | `#818f86` | Default foreground, dim when available |
 | Action accent | `#9bd5c9` | `#1a6960` | Bold, `>` or input target; underline optional |
 | Attention | `#edc57d` | `#835506` | Bold plus explicit signal/state |
 | Failure | `#f29da5` | `#ad3545` | Bold reason and correction |
@@ -154,7 +226,7 @@ rules live in [the manual](tui-use.md); these rules describe their appearance.
 
 | Component state | Appearance | Information retained |
 | --- | --- | --- |
-| Reading | Bare transcript, small row focus, no empty input region | Author, body, action target |
+| Reading | Separated transcript, small row focus, no empty input region | Author, body, action target |
 | New message / Reply / Edit | Same input surface, explicit target, cursor | Draft and destination |
 | Pending send | Pending label at attempted row, secondary text | Body remains legible |
 | Refused write | Failure reason in state row; restored draft in composer | Target, correction and route to full help |
@@ -209,13 +281,13 @@ support neutral content and secondary metadata. The terminal translation uses
 alignment and small semantic accents, not their gradient or pixel dimensions.
 References were inspected as images or source, not tested as live products.
 
-## Review and implementation acceptance
+## Implementation acceptance
 
 Review the atlas with its annotations covered: can a reader identify where they
 are, which row an action targets, where a draft will go, and which state needs
 attention? Changing pages should not require relearning those cues. Removing
-color must leave each answer intact. The self-review supports this direction;
-it is not user-test evidence.
+color must leave each answer intact. The direction is approved for implementation;
+the mockups are not user-test or runtime evidence.
 
 Before implementation is accepted, compare real captures against these studies
 at 120x30, 80x12, 79x12, 40x10 and 24x6. Include long author names, ambiguous
@@ -224,9 +296,41 @@ terminal palettes and NO_COLOR. Exercise loading, empty, stale, partial,
 refused, uncertain and deleted-target states without losing the draft or hiding
 its destination. In particular, verify selection and state contrast together.
 
+The following checks define done; every row needs evidence at the implemented
+source revision, with terminal dimensions and palette recorded:
+
+| Check | Observable result |
+| --- | --- |
+| V1: Message boundary | Roomy separator replaces a gap after all message content; compact separator stays in the author line; short/long and same-author messages remain distinct |
+| V2: Row identity | Movement, scroll, PgUp/PgDn, reply, react, edit and delete still target the same event; separators cannot receive focus or affect unread |
+| V3: Focus transfer | Reading identifies the action row; composing emphasizes only its destination and cursor; cancelling/restoring retains the correct target |
+| V4: Density | Channel and thread work at 120x30, 80x12, 79x12, 40x10 and 24x6; a 15/16-row resize switches rule placement without losing content or focus |
+| V5: Text pressure | Long names, state labels, CJK, combining marks, emoji and URLs do not collide with a rule, cursor or footer; decoration yields first |
+| V6: Write/read state | Pending, refused, uncertain, partial, unknown, reconnect and deleted-target states keep their meanings and draft behavior; uncertainty offers no automatic resend |
+| V7: Shared surfaces | Inbox, Agent list/detail and help use the same selection and text hierarchy; long Agent status wraps and remains readable |
+| V8: Portable rendering | Light/dark defaults, ANSI and NO_COLOR preserve focus, target and state; no hardcoded dark fill makes text unreadable |
+
 The atlas checks geometry and appearance of static fixtures only. Runtime
 wrapping, cursor movement, resize, terminals' palette behavior and actual
 write outcomes remain unverified. Implementation still requires repository
 checks, the real terminal workflow required by [AGENTS.md](../AGENTS.md), and
 reviewed captures from the usable binary. A spec or browser image is not that
 evidence.
+
+## Implementation handoff
+
+Start from the shared text, focus and separator rules, then apply them to the
+channel and full-screen thread together. Apply the composer budgets and state
+presentation next, then reuse the list treatment in Inbox, Agents and help.
+Each stage must leave the existing conversation loop usable. This order is a
+way to deliver the one visual spec, not permission to omit the other surfaces.
+
+Use the [existing presentation boundary](../design/architecture.md): rendering
+may read state but does not introduce writes or change event semantics. Reuse
+the current message focus and target identities. Adding decoration must not
+turn a rendered-line index into a message identity. Keep appearance knowledge
+shared; do not grow separate per-page palettes or density policies.
+
+This handoff authorizes implementation of the approved appearance. It does
+not claim implementation, integration or release completion. Delivery must
+identify the final revision and usable binary alongside the V1-V8 evidence.

diff --git a/docs/README.md b/docs/README.md
@@ -31,5 +31,6 @@ is not published.
 planned TUI slice: open one discussion, reply, and return to the channel.
 It is a product spec, not an implemented capability.
 
-[tui-visual.md](tui-visual.md) defines the proposed shared TUI visual language,
-with a review atlas covering conversation, list/detail, state and density.
+[tui-visual.md](tui-visual.md) is the approved implementation spec for the shared TUI
+visual language, with message separators, region budgets and acceptance checks.
+Its atlas shows intended appearance; the change is not yet implemented.
